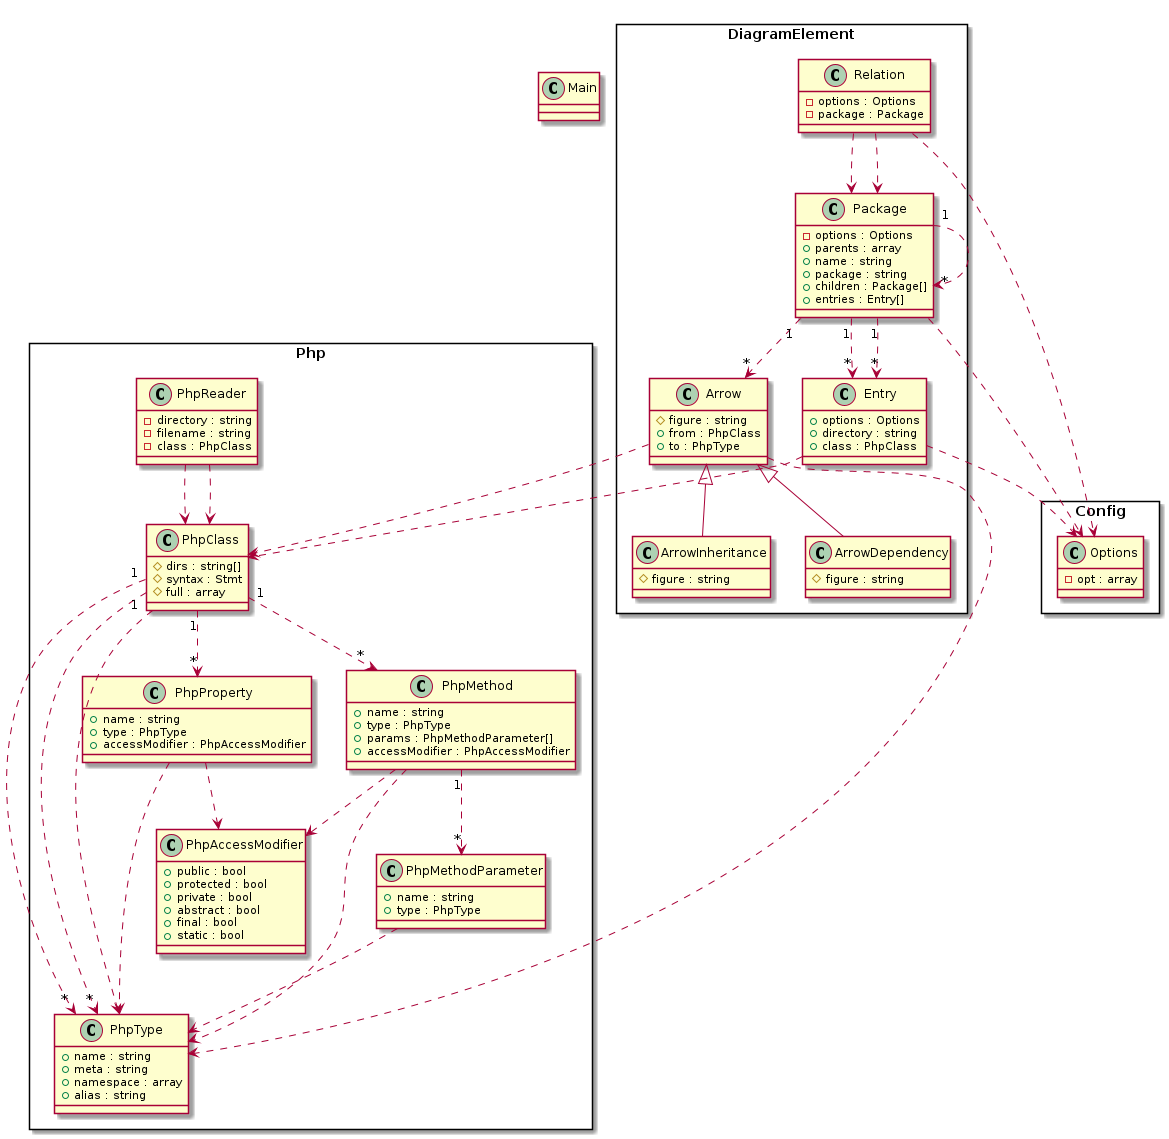
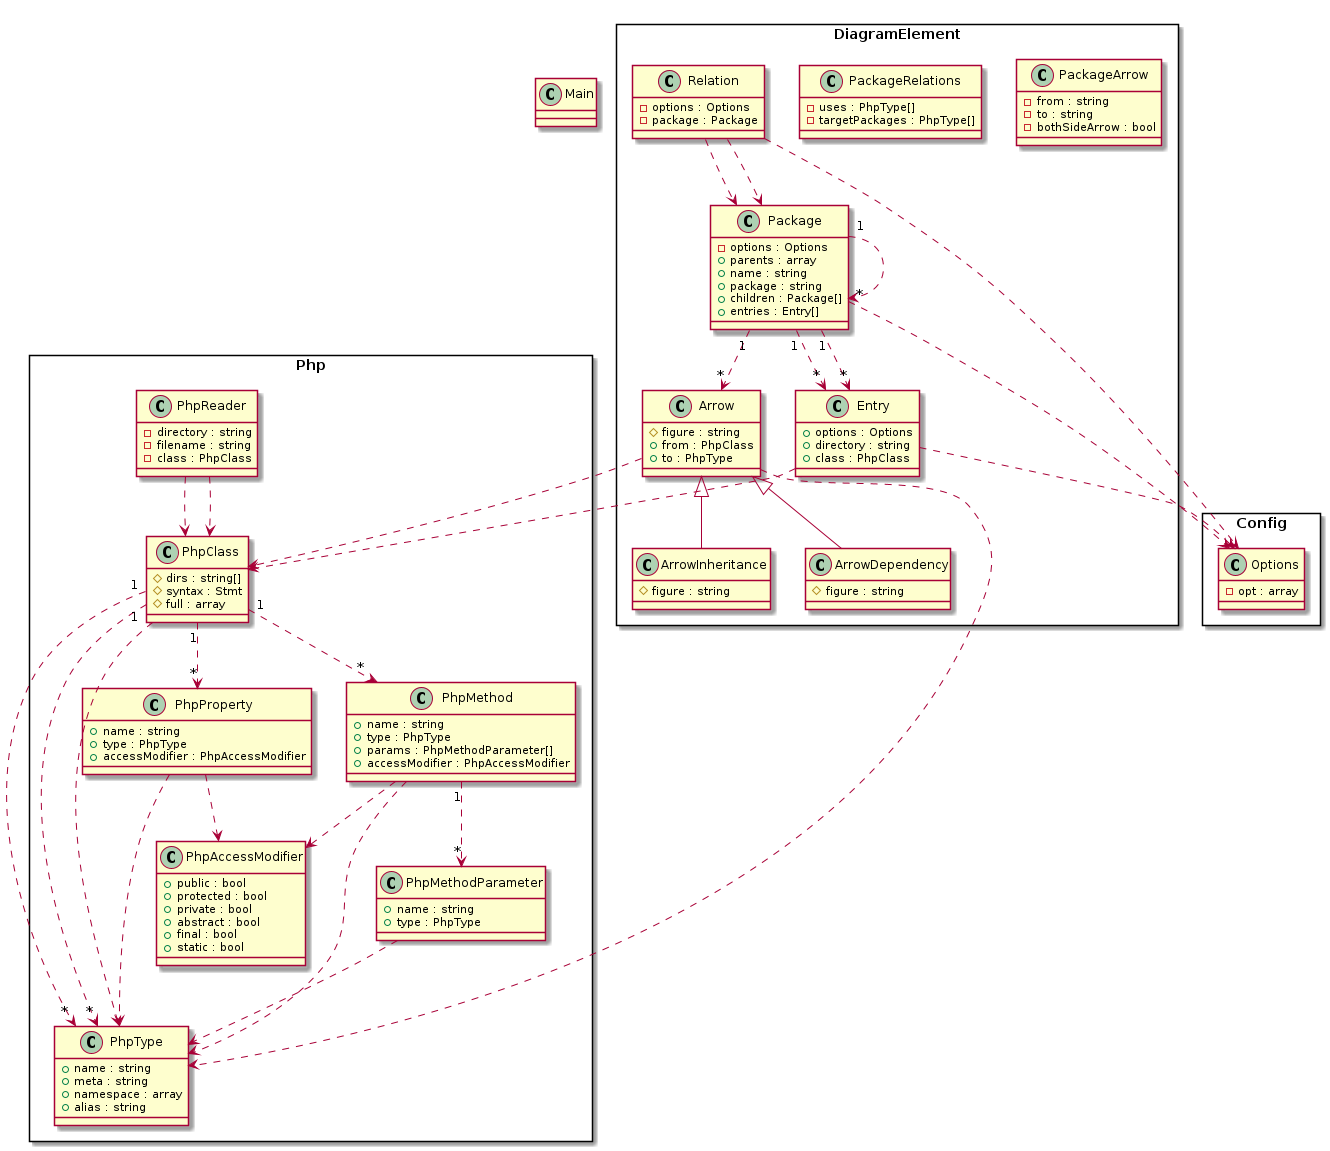
v0.0.6 (2021-11-27)
Features

 * refactor properties names and variable names. rename Namespace to Package.
 * In the package relationship diagram, the dependency in both directions is
   shown by a thick red line. Two-way dependencies may indicate a bad design.

Bug fix

 * In the package relationship diagram, relation name dose not included package name.

diff --git a/src/Main.php b/src/Main.php
@@ -10,7 +10,7 @@ use Smeghead\PhpClassDiagram\DiagramElement\ {
 use Smeghead\PhpClassDiagram\Php\PhpReader;
 
 class Main {
-    const VERSION = 'v0.0.5';
+    const VERSION = 'v0.0.6';
 
     public function __construct(string $directory, Options $options) {
         $finder = new Finder();

diff --git a/CHANGELOG.md b/CHANGELOG.md
@@ -1,12 +1,16 @@
 # CHANGELOG
 
+## v0.0.6 (2021-11-27)
 
-### Added
+### Features
 
  * refactor properties names and variable names. rename Namespace to Package.
  * In the package relationship diagram, the dependency in both directions is
    shown by a thick red line. Two-way dependencies may indicate a bad design.
    
+### Bug fix
+
+ * In the package relationship diagram, relation name dose not included package name.
 
 ## v0.0.5 (2021-11-22)
 
